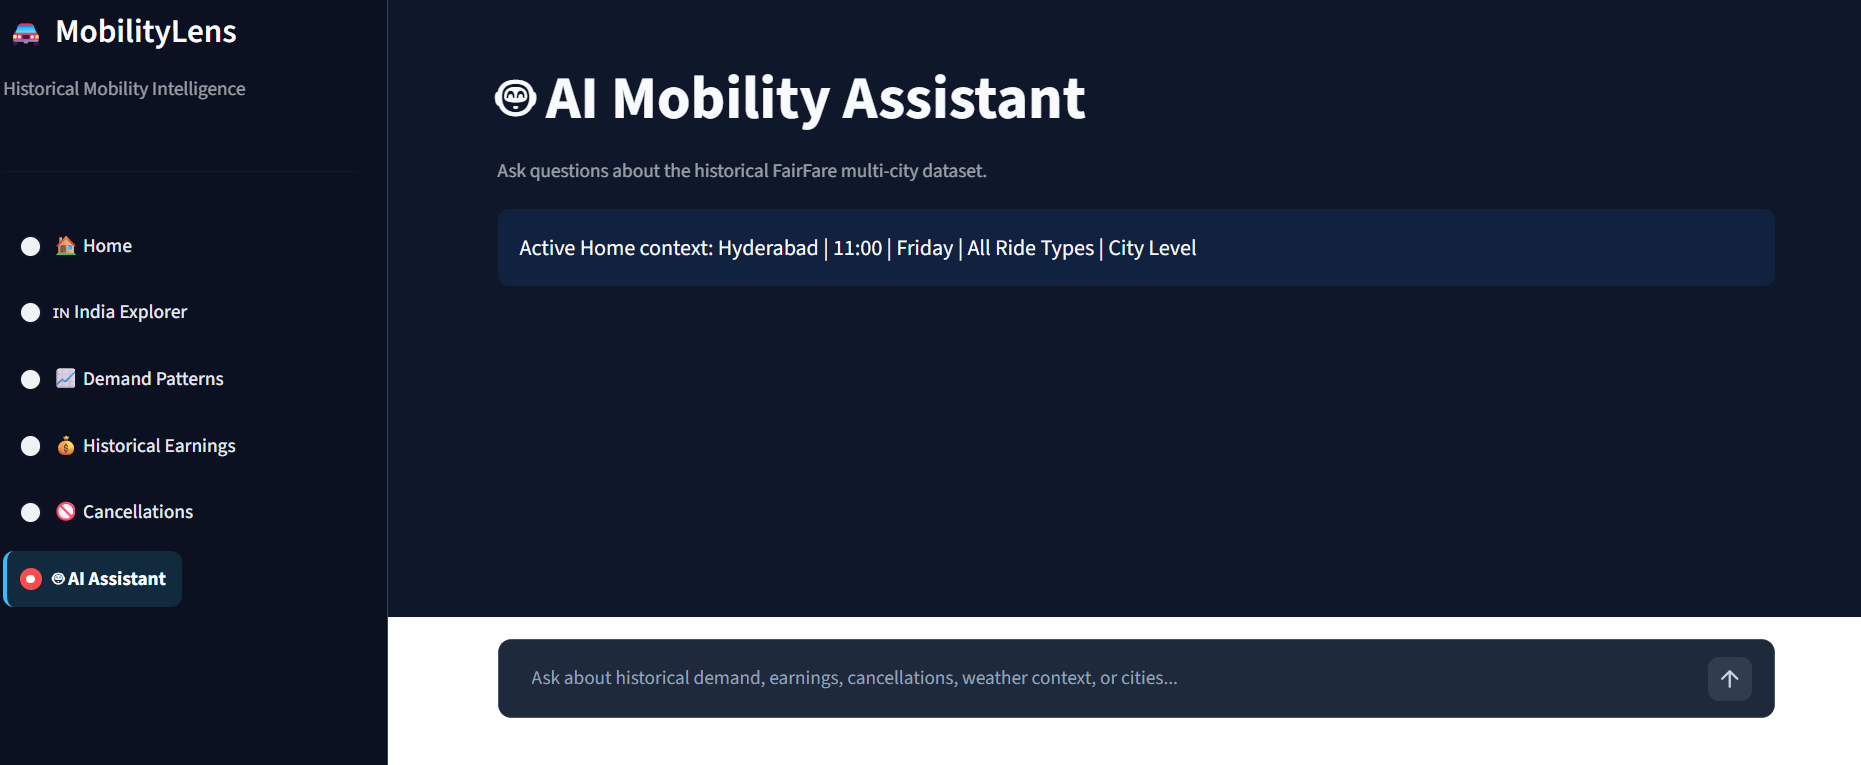
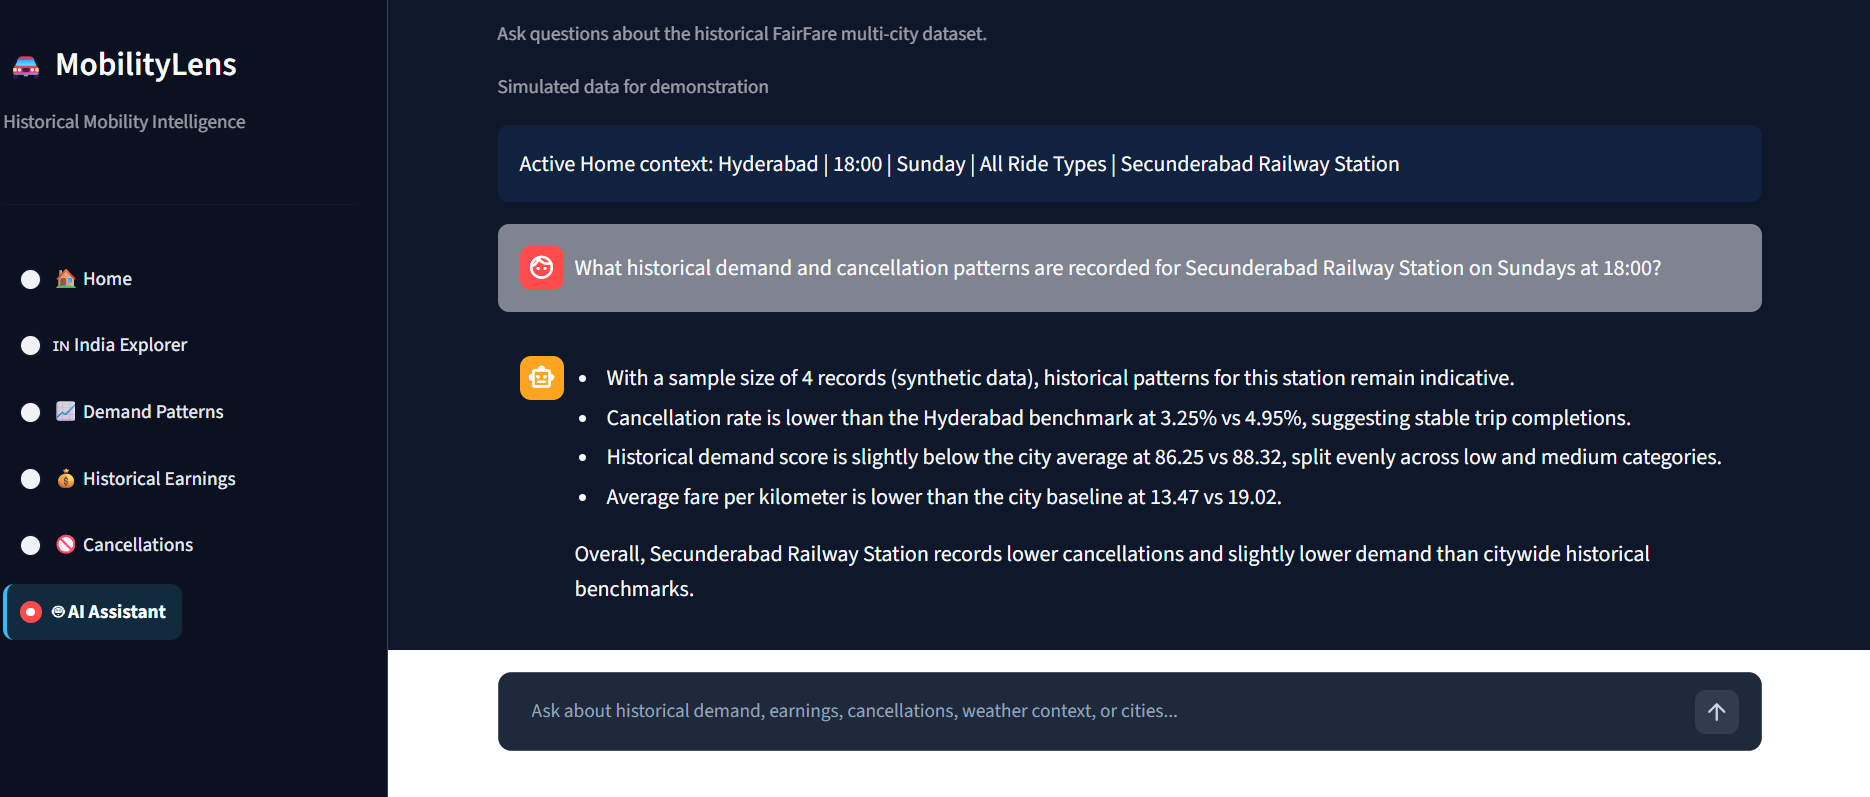
Finalize AI assistant prompt and screenshot

diff --git a/main.py b/main.py
@@ -314,14 +314,16 @@ st.markdown(
     }
 
     div[data-testid="stMarkdownContainer"] p,
-    div[data-testid="stMarkdownContainer"] span,
-    div[data-testid="stMarkdownContainer"] strong,
-    div[data-testid="stCaptionContainer"] p,
-    div[data-testid="stCaptionContainer"] span,
-    div[data-testid="stText"] p,
-    div[data-testid="stText"] span {
-        color: #f8fafc !important;
-    }
+div[data-testid="stMarkdownContainer"] span,
+div[data-testid="stMarkdownContainer"] strong,
+div[data-testid="stMarkdownContainer"] li,
+div[data-testid="stMarkdownContainer"] li *,
+div[data-testid="stCaptionContainer"] p,
+div[data-testid="stCaptionContainer"] span,
+div[data-testid="stText"] p,
+div[data-testid="stText"] span {
+    color: #f8fafc !important;
+}
 
     div[data-testid="stSelectbox"] label,
     div[data-testid="stSelectbox"] label *,
@@ -2935,14 +2937,22 @@ Available evidence:
 
 Rules:
 - Use historical recorded evidence only.
-- Clearly call FairFare synthetic/generated when discussing its numbers.
-- Never present synthetic data as official Uber/Ola data.
-- Never predict future demand, future earnings, or cancellation outcomes.
-- Never tell the driver where to go or whether they should drive.
-- Explain what the recorded data shows and mention sample size when relevant.
+- Answer in 3 to 4 bullets, about 80 to 100 words in total, followed by one short line starting with "Overall". Do not list or repeat KPI values one by one.
+- Each bullet explains one business insight about the most relevant metrics or patterns in the provided evidence. Use at most two numbers per bullet.
+- When a city average is available and useful, compare the place with the city average and give both values, for example "3.25% vs 4.95%".
+- Lead with the most important pattern. Skip metrics that show nothing notable.
+- Do not describe demand as moderate, strong, or weak unless the evidence supports it. Prefer evidence-based wording such as "slightly below the city average".
+- Use cautious wording such as "suggests" or "is lower than". Do not state causes, predictions, recommendations, or driver instructions.
+- Do not use the word "trend" for a single historical slice.
+- Mention once, briefly, that the data is synthetic, for example "(synthetic data)". Mention the number of records only when it is under 10, and then say the result is indicative.
+- Use cancellation rate only when it is provided in the evidence. Never mention, calculate, estimate, or infer cancellation probability.
+- Always preserve the exact units provided in the evidence, especially % for cancellation rates. Never remove or change units.
 - Live weather or traffic is current context, not historical ride evidence.
 - When discussing a Home demonstration zone, describe it as a simulated/demo zone and do not call it official neighbourhood data.
+- If asked how this assistant works, say it is a Generative AI assistant that explains metrics calculated by the app, not an autonomous agent.
+- If little evidence is available, give fewer bullets. Do not pad or invent anything to fill space.
 - Keep the answer concise and practical.
+- Write fare values in rupees with the ₹ sign.
 """
 
     try:
@@ -3012,6 +3022,7 @@ Rules:
 # ==============================================================================
 
 def render_live_context(city):
+
     weather = get_live_weather(
         city
     )
@@ -3036,8 +3047,9 @@ def render_live_context(city):
                 "Live Temperature",
                 (
                     f"{format_number(
-                    weather.get('temperature_c'), 
-                    1)} °C"
+                        weather.get("temperature_c"),
+                        1
+                    )} °C"
                 ),
             ),
             (
@@ -3097,48 +3109,52 @@ def render_live_context(city):
 
     else:
         traffic_message = traffic.get(
-        "message",
-        "Live traffic unavailable.",
-    )
-    
-    values.extend([
-        ("Traffic Delay", "Unavailable"),
-        ("Current Speed", "Unavailable"),
-    ])
+            "message",
+            "Live traffic unavailable.",
+        )
 
-    
+        values.extend(
+            [
+                (
+                    "Traffic Delay",
+                    "Unavailable",
+                ),
+                (
+                    "Current Speed",
+                    "Unavailable",
+                ),
+            ]
+        )
 
-    for col, (
-        label,
-        value,
-    ) in zip(
+    for col, (label, value) in zip(
         cols,
         values,
     ):
         with col:
+            card_html = (
+                f'<div class="live-context-card">'
+                f'<div class="live-context-label">{label}</div>'
+                f'<div class="live-context-value">{value}</div>'
+                f'</div>'
+            )
+
             st.markdown(
-                f"""
-                <div class="live-context-card">
-                    <div class="live-context-label">{label}</div>
-                    <div class="live-context-value">{value}</div>
-                </div>
-                """,
+                card_html,
                 unsafe_allow_html=True,
             )
 
     st.caption(
         "Live weather is current context. "
-        "Live traffic is optional and requires "
-        "a TomTom API key. Historical ride metrics "
+        "Live traffic is optional and requires a "
+        "TomTom API key. Historical ride metrics "
         "remain separate from live signals."
     )
 
-    return (
-        weather,
-        traffic,
-    )
+    return weather, traffic
 
-
+# ==============================================================================
+# HOME
+# ==============================================================================
 # ==============================================================================
 # SIDEBAR
 # ==============================================================================
@@ -3174,12 +3190,8 @@ selected_page = nav_options[
     selected_label
 ]
 
-
-# ==============================================================================
-# HOME
-# ==============================================================================
-
 if selected_page == "Home":
+    
 
     current_location = (
         detect_current_location()
@@ -3664,7 +3676,8 @@ if selected_page == "Home":
             "Historical Pattern Summary"
         )
 
-        st.info(summary)
+        with st.container(border=True):
+            st.markdown(summary)
 
 
 # ==============================================================================
@@ -5028,6 +5041,9 @@ elif selected_page == "AI Assistant":
         "FairFare multi-city dataset."
     )
 
+    st.caption(
+        "Simulated data for demonstration"
+    )
     active_context = (
         st.session_state.get(
             "home_last_context"
